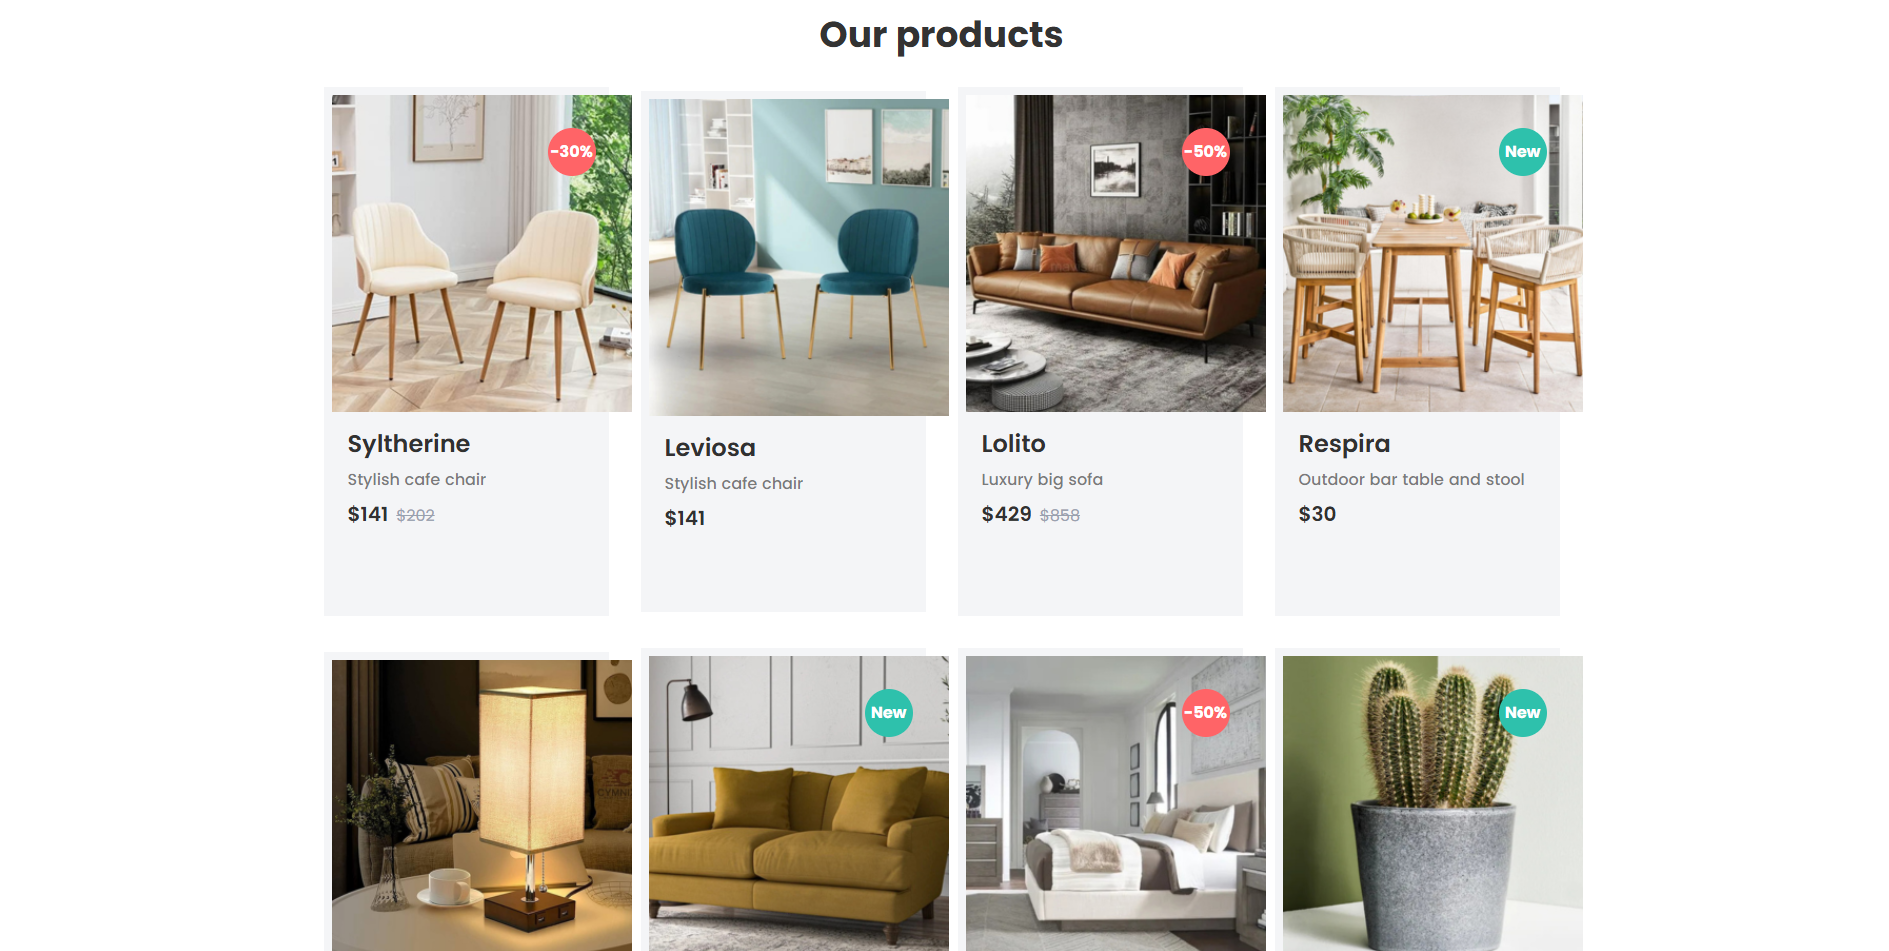
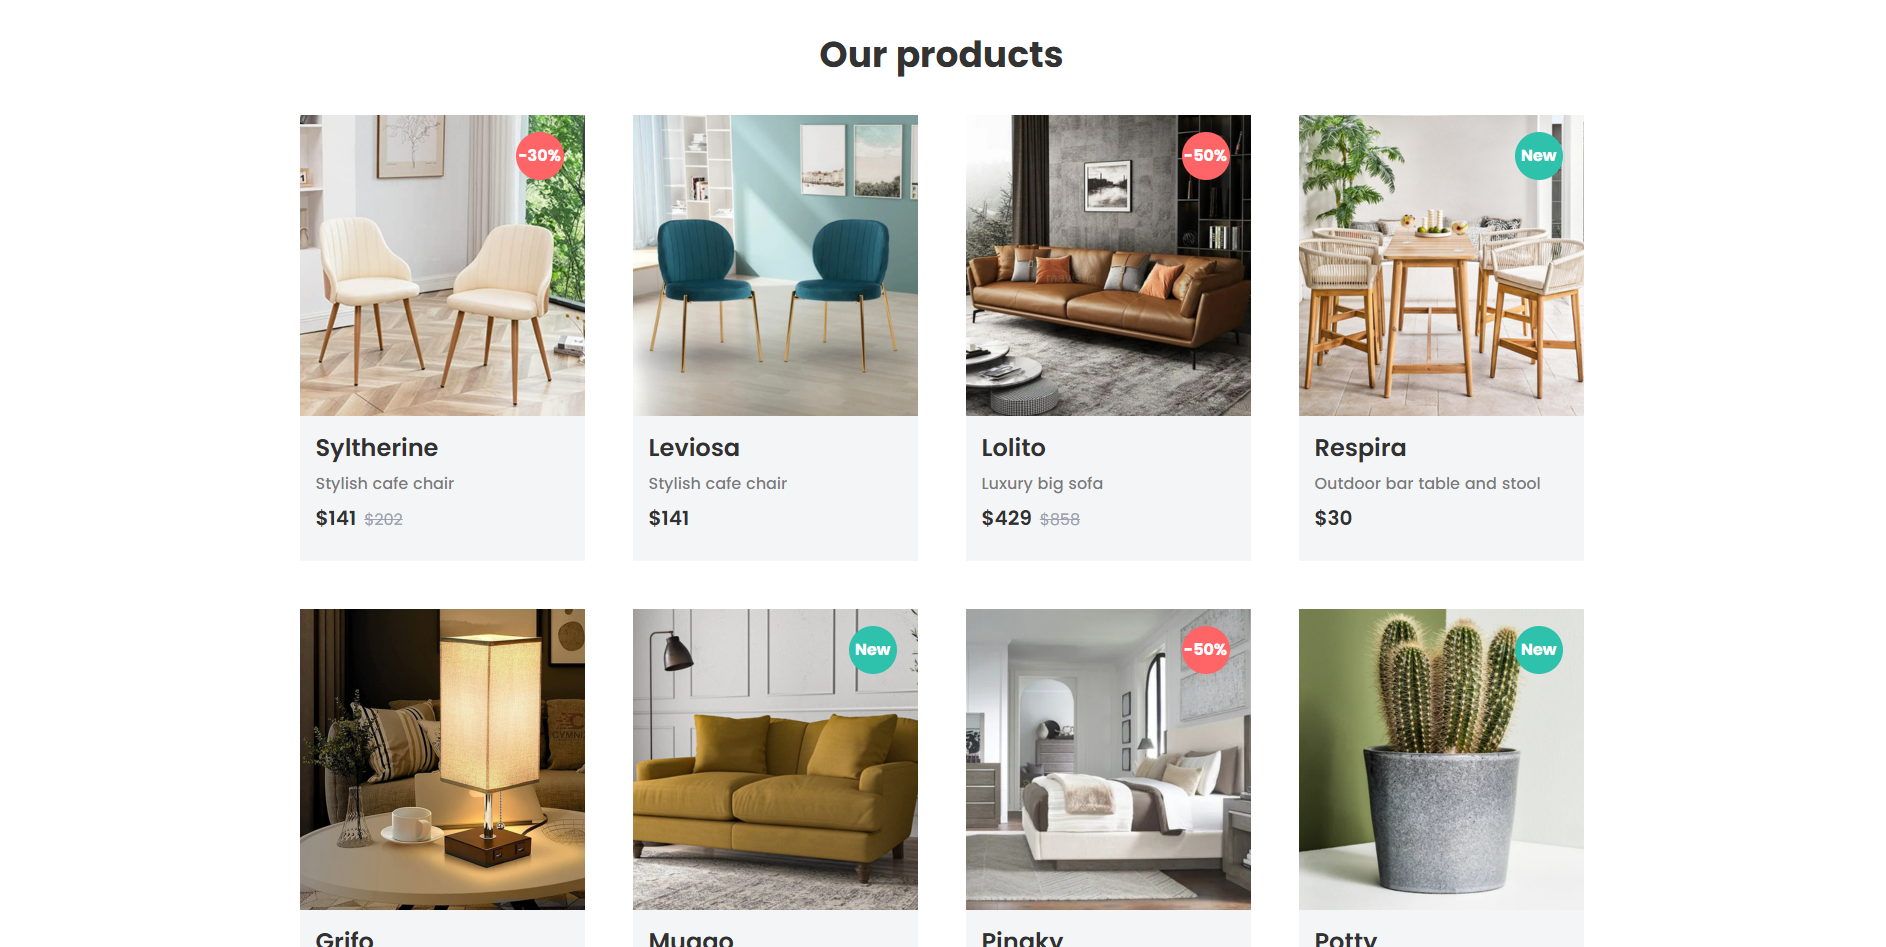
changed produts and github

diff --git a/src/components/Products/Products.tsx b/src/components/Products/Products.tsx
@@ -2,10 +2,10 @@ function Products() {
     return (
         <div className="">
             <div className="flex gap-8 items-center justify-center pb-8">
-                <div className="bg-p w-[285px] h-[446x] inline-block p-2 cursor-pointer hover:scale-105 ease-in-out duration-400">
+                <div className="inline-block p-2 cursor-pointer hover:scale-105 ease-in-out duration-300">
                     <a href="#">
-                        <img className="min-w-[300px] min-h-[200px]" src="./src/assets/furniture-1.png" alt="" />
-                        <div className="flex-col pt-4 pr-5 pb-8 pl-4">
+                        <img className="min-w-[285px] min-h-[200px]" src="./src/assets/furniture-1.png" alt="" />
+                        <div className="bg-p w-[285px] h-[145px] flex-col pt-4 pr-5 pb-8 pl-4">
                             <h1 className="font-poppins font-semibold text-2xl text-black/80 pb-2">Syltherine</h1>
                             <h1 className="font-poppins font-medium text-base text-black/50 pb-2">Stylish cafe chair</h1>
                             <span className="font-poppins font-semibold text-xl text-black/80">$141</span>
@@ -15,10 +15,10 @@ function Products() {
                     </a>
                 </div>
 
-                <div className="bg-p w-[285px] h-[446x] inline-block p-2 cursor-pointer hover:scale-105 ease-in-out duration-300 pb-12">
+                <div className="inline-block p-2 cursor-pointer hover:scale-105 ease-in-out duration-300">
                     <a href="#">
-                        <img className="min-w-[300px] min-h-[300px] " src="./src/assets/furniture-2.png" alt="" />
-                        <div className="flex-col pt-4 pr-5 pb-8 pl-4">
+                        <img className="min-w-[285px] min-h-[300px] " src="./src/assets/furniture-2.png" alt="" />
+                        <div className="bg-p w-[285px] h-[145px] flex-col pt-4 pr-5 pb-8 pl-4">
                             <h1 className="font-poppins font-semibold text-2xl text-black/80 pb-2">Leviosa</h1>
                             <h1 className="font-poppins font-medium text-base text-black/50 pb-2">Stylish cafe chair</h1>
                             <span className="font-poppins font-semibold text-xl text-black/80">$141</span>
@@ -26,10 +26,10 @@ function Products() {
                     </a>
                 </div>
 
-                <div className="bg-p w-[285px] h-[446x] inline-block p-2 cursor-pointer hover:scale-105 ease-in-out duration-300">
+                <div className="inline-block p-2 cursor-pointer hover:scale-105 ease-in-out duration-300">
                     <a href="#">
-                        <img className="min-w-[300px] min-h-[300px] " src="./src/assets/furniture-3.png" alt="" />
-                        <div className="flex-col pt-4 pr-5 pb-8 pl-4">
+                        <img className="min-w-[285px] min-h-[300px] " src="./src/assets/furniture-3.png" alt="" />
+                        <div className="bg-p w-[285px] h-[145px] flex-col pt-4 pr-5 pb-8 pl-4">
                             <h1 className="font-poppins font-semibold text-2xl text-black/80 pb-2">Lolito</h1>
                             <h1 className="font-poppins font-medium text-base text-black/50 pb-2">Luxury big sofa</h1>
                             <span className="font-poppins font-semibold text-xl text-black/80">$429</span>
@@ -39,10 +39,10 @@ function Products() {
                     </a>
                 </div>
 
-                <div className="bg-p w-[285px] h-[446x] inline-block p-2 cursor-pointer hover:scale-105 ease-in-out duration-300">
+                <div className="inline-block p-2 cursor-pointer hover:scale-105 ease-in-out duration-300">
                     <a href="#">
-                        <img className="min-w-[300px] min-h-[300px] " src="./src/assets/furniture-4.png" alt="" />
-                        <div className="flex-col pt-4 pr-5 pb-8 pl-4">
+                        <img className="min-w-[285px] min-h-[300px] " src="./src/assets/furniture-4.png" alt="" />
+                        <div className="bg-p w-[285px] h-[145px] flex-col pt-4 pr-5 pb-8 pl-4">
                             <h1 className="font-poppins font-semibold text-2xl text-black/80 pb-2">Respira</h1>
                             <h1 className="font-poppins font-medium text-base text-black/50 pb-2">Outdoor bar table and stool</h1>
                             <span className="font-poppins font-semibold text-xl text-black/80">$30</span>
@@ -53,10 +53,10 @@ function Products() {
             </div>
 
             <div className="flex gap-8 items-center justify-center pb-8">
-                <div className="bg-p w-[285px] h-[446x] inline-block p-2 cursor-pointer hover:scale-105 ease-in-out duration-300 pb-12">
+                <div className="inline-block p-2 cursor-pointer hover:scale-105 ease-in-out duration-300">
                     <a href="#">
-                        <img className="min-w-[300px] min-h-[300px] " src="./src/assets/furniture-5.png" alt="" />
-                        <div className="flex-col pt-4 pr-5 pb-8 pl-4">
+                        <img className="min-w-[285px] min-h-[300px] " src="./src/assets/furniture-5.png" alt="" />
+                        <div className="bg-p w-[285px] h-[145px] flex-col pt-4 pr-5 pb-8 pl-4">
                             <h1 className="font-poppins font-semibold text-2xl text-black/80 pb-2">Grifo</h1>
                             <h1 className="font-poppins font-medium text-base text-black/50 pb-2">Night lamp</h1>
                             <span className="font-poppins font-semibold text-xl text-black/80">$91</span>
@@ -64,10 +64,10 @@ function Products() {
                     </a>
                 </div>
 
-                <div className="bg-p w-[285px] h-[446x] inline-block p-2 cursor-pointer hover:scale-105 ease-in-out duration-300">
+                <div className="inline-block p-2 cursor-pointer hover:scale-105 ease-in-out duration-300">
                     <a href="#">
-                        <img className="min-w-[300px] min-h-[300px] " src="./src/assets/furniture-6.png" alt="" />
-                        <div className="flex-col pt-4 pr-5 pb-8 pl-4">
+                        <img className="min-w-[285px] min-h-[300px] " src="./src/assets/furniture-6.png" alt="" />
+                        <div className="bg-p w-[285px] h-[145px] flex-col pt-4 pr-5 pb-8 pl-4">
                             <h1 className="font-poppins font-semibold text-2xl text-black/80 pb-2">Muggo</h1>
                             <h1 className="font-poppins font-medium text-base text-black/50 pb-2">Small couch</h1>
                             <span className="font-poppins font-semibold text-xl text-black/80">$220</span>
@@ -76,10 +76,10 @@ function Products() {
                     </a>
                 </div>
 
-                <div className="bg-p w-[285px] h-[446x] inline-block p-2 cursor-pointer hover:scale-105 ease-in-out duration-300">
+                <div className="inline-block p-2 cursor-pointer hover:scale-105 ease-in-out duration-300">
                     <a href="#">
-                        <img className="min-w-[300px] min-h-[300px] " src="./src/assets/furniture-7.png" alt="" />
-                        <div className="flex-col pt-4 pr-5 pb-8 pl-4">
+                        <img className="min-w-[285px] min-h-[300px] " src="./src/assets/furniture-7.png" alt="" />
+                        <div className="bg-p w-[285px] h-[145px] flex-col pt-4 pr-5 pb-8 pl-4">
                             <h1 className="font-poppins font-semibold text-2xl text-black/80 pb-2">Pingky</h1>
                             <h1 className="font-poppins font-medium text-base text-black/50 pb-2">Cute bed set</h1>
                             <span className="font-poppins font-semibold text-xl text-black/80">$429</span>
@@ -89,10 +89,10 @@ function Products() {
                     </a>
                 </div>
 
-                <div className="bg-p w-[285px] h-[446x] inline-block p-2 cursor-pointer hover:scale-105 ease-in-out duration-300">
+                <div className="inline-block p-2 cursor-pointer hover:scale-105 ease-in-out duration-300">
                     <a href="#">
-                        <img className="min-w-[300px] min-h-[300px] " src="./src/assets/furniture-8.png" alt="" />
-                        <div className="flex-col pt-4 pr-5 pb-8 pl-4">
+                        <img className="min-w-[285px] min-h-[300px] " src="./src/assets/furniture-8.png" alt="" />
+                        <div className="bg-p w-[285px] h-[145px] flex-col pt-4 pr-5 pb-8 pl-4">
                             <h1 className="font-poppins font-semibold text-2xl text-black/80 pb-2">Potty</h1>
                             <h1 className="font-poppins font-medium text-base text-black/50 pb-2">Flower pot</h1>
                             <span className="font-poppins font-semibold text-xl text-black/80">$20</span>
